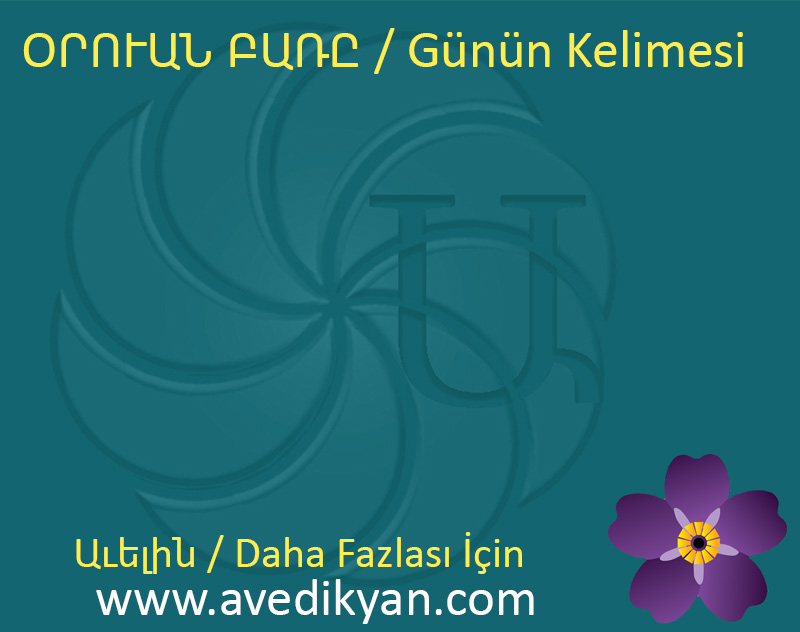
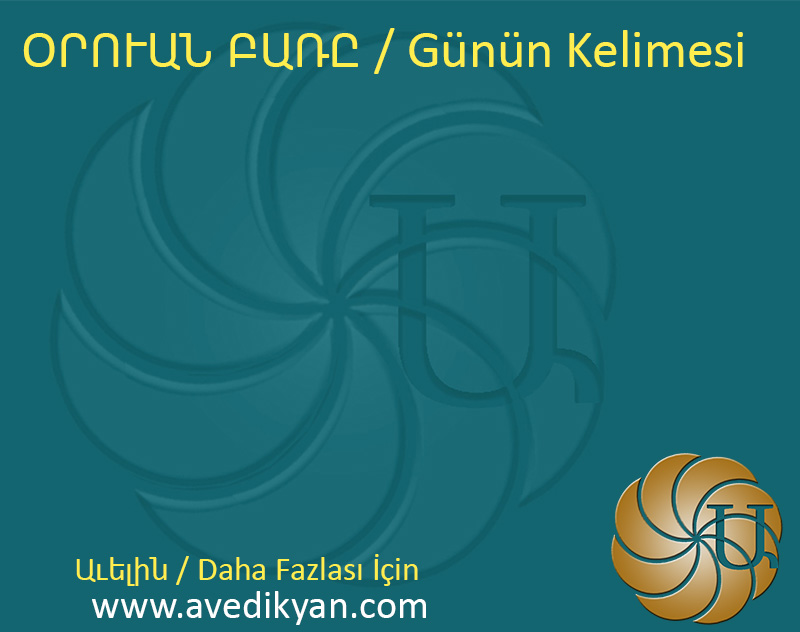
meta tag fixed, error is gone now the index page scrolls to the result if it's out of sight From now on word of the day template won't be displayed without downloading. Hence, the download popup is removed. Re designed template

Changed region(s): [[0.0938, 0.8418, 0.6875, 0.9921], [0.75, 0.6915, 1.0, 0.9921]]

diff --git a/pages/account/wordOfTheDay.vue b/pages/account/wordOfTheDay.vue
@@ -292,7 +292,7 @@ const tempPanel = ref(false);
 const tempAm = ref("");
 const tempTr1 = ref("");
 const tempTr4 = ref("");
-const openTemplatePanel = async () => {
+const exportAsJpg = async () => {
 
   try {  
     if (selectedDate.value) {
@@ -319,6 +319,19 @@ const openTemplatePanel = async () => {
 
   temp.value?.focus();
 
+  const canvas = await html2canvas(image.value, { useCORS: true });
+  const link = document.createElement("a");
+
+  if(selectedDate.value)
+  link.download = `${selectedDate.value}_${responseData.value[getIndex(selectedDate.value)].okunus}.jpg`;
+  link.href = canvas.toDataURL("image/jpeg", 1.0); 
+
+  link.click();
+
+  tempPanel.value = false;
+
+  
+
   } catch (error) {
         alert("Şablonu oluşturmadan önce; sözcüğün İngilizcesinin, Türkçesinin, Ermenicesinin ve okunuşunun dolu olduğundan emin olun.");
 
@@ -330,23 +343,16 @@ import html2canvas from "html2canvas";
 
 const image = ref();
 
-const exportAsJpg = async () => {
-  const canvas = await html2canvas(image.value, { useCORS: true });
-  const link = document.createElement("a");
-  if(selectedDate.value)
-  link.download = `${selectedDate.value}_${responseData.value[getIndex(selectedDate.value)].okunus}.jpg`;
-  link.href = canvas.toDataURL("image/jpeg", 1.0); // quality 1.0 (max)
-  link.click();
-};
+
 </script>
 
 <template>
   <div v-if="isLogged" class="containers">
     <div
       v-if="selectedDate != null && responseData[getIndex(selectedDate)]"
-      class="absolute top-36"
+      class="absolute top-36 bg-black lg:bg-transparent p-2 lg:p-0 rounded-lg"
     >
-      <div class="flex justify-center xl:text-lg font-bold">
+      <div class="flex justify-center xl:text-lg font-bold text-white">
         Seçilen Güne Kaydedilmiş Sözcük
       </div>
       <table
@@ -430,9 +436,9 @@ const exportAsJpg = async () => {
       </table>
 
       <ElementComponentsCustomButton
-        @click="openTemplatePanel"
+        @click="exportAsJpg"
         class="hover:bg-red-500 mx-auto block mt-4"
-        text="Şablonu Görüntüle"
+        text="Şablonu İndir"
       />
     </div>
 
@@ -620,55 +626,31 @@ const exportAsJpg = async () => {
     Bağlantı Sorunu
   </div>
 
-  <div
-    v-if="tempPanel && responseData && selectedDate" @click.self="tempPanel = false"   @keyup.esc="tempPanel = false" tabindex="0" ref="temp"
-
-    class="fixed inset-0 bg-black/50 flex justify-center items-center z-50 select-none"
-  >
-    <div class="bg-white p-6 rounded-lg w-[900px] h-[792px]">
-
-            <div class="text-black text-5xl font-bold flex justify-end">
-              <div class="border-black border px-[5px] pb-[2px] cursor-pointer rounded-lg hover:bg-red-500" v-text="'&#x2715'"  @click="tempPanel = false"></div>
-
-      </div>
-
-      <div class="flex justify-center mt-2">
+        <div class="flex justify-center mt-2 fixed -left-[9999px] top-0" 
+        v-if="tempPanel && responseData && selectedDate"
+     >
         <div class="relative font-[Calibri] flex justify-center text-white " ref="image">
           <img src="/wordday.jpg" class="min-w-[800px] min-h-[632px] " draggable="false"/>
           <span
-            class="absolute text-6xl top-20 transform text-center flex justify-center w-[736px]"
+            class="absolute font-bold text-6xl top-40 transform text-center flex justify-center w-[736px]"
             v-text="tempAm"
           ></span>
           <span
-            class="absolute text-5xl top-[320px] text-center flex justify-center w-[736px]"
+            class="absolute text-4xl top-[320px] text-center flex justify-center w-[736px]"
             v-text="tempTr1"
           ></span>
           <span
-            class="absolute text-5xl top-[426px] text-center flex justify-center w-[552px]"
+            class="absolute text-4xl top-[426px] text-center flex justify-center w-[552px]"
             v-text="tempTr4"
           ></span>
           <span
-            class="absolute text-4xl top-56 text-center flex justify-center w-[416px]"
+            class="absolute text-3xl top-20 text-center flex justify-center w-[736px]"
             v-text="'(' + responseData[getIndex(selectedDate)].okunus + ')'"
           ></span>
         </div>
       </div>
 
-      <ElementComponentsCustomButton
-        @click="exportAsJpg"
-        class="hover:bg-red-500 mx-auto block mt-1"
-        text="İndir"
-      />
 
-      <ElementComponentsCustomButton
-        @click="tempPanel = false"
-        class="hover:bg-red-500 mx-auto block mt-1"
-        text="Kapat"
-      />
-
-
-    </div>
-  </div>
 </template>
 
 <style scoped>

diff --git a/pages/index.vue b/pages/index.vue
@@ -1,21 +1,23 @@
 <script setup lang="ts">
 import type { TDATA } from "~/models/TDATA";
 import { useSearchHistoryStore } from "~/store/search-history.store";
+import { useElementVisibility } from '@vueuse/core'
+import { useTemplateRef } from 'vue'
+const target = useTemplateRef('target')
+const targetIsVisible = useElementVisibility(target)
 
 const loading = ref(true);
 
 onMounted(() => {
-    loading.value = false;
+  loading.value = false;
 });
-
 
 const { t } = useI18n();
 
-const title = computed(() => t('title.index'))
+const title = computed(() => t("title.index"));
 useHead({
-  title
+  title,
 });
-
 
 const desword = ref("");
 const previousDesword = ref("");
@@ -46,11 +48,18 @@ const setToday = async (todayData: TDATA[]) => {
   thereIsNoResult.value = false;
   thereIsNoConnection.value = false;
   searchline.value.wordFromAbove(desword.value);
+        nextTick(() => {
+      if (!targetIsVisible.value) {
+      scrollToTarget();
+    }
+  });
+
 };
 
 const wordInput = (data: string) => {
   desword.value = data;
 };
+
 
 const responseData = ref();
 const submit = async () => {
@@ -62,7 +71,7 @@ const submit = async () => {
     `/api/search/${encodeURIComponent(desword.value)}`,
     {
       method: "GET",
-    }
+    },
   );
   if (error.value) {
     thereIsNoConnection.value = true;
@@ -83,6 +92,11 @@ const submit = async () => {
     thereIsNoResult.value = false;
     thereIsNoConnection.value = false;
     searchHistoryStore.addHistory(desword.value);
+      nextTick(() => {
+      if (!targetIsVisible.value) {
+      scrollToTarget();
+    }
+  });
   } else {
     thereIsNoResult.value = true;
   }
@@ -109,7 +123,11 @@ const random = async () => {
     previousDesword.value = desword.value;
     searchline.value.wordFromAbove(desword.value);
     searchHistoryStore.addHistory(desword.value);
-
+      nextTick(() => {
+      if (!targetIsVisible.value) {
+      scrollToTarget();
+    }
+  });
 
   } else {
     thereIsNoResult.value = true;
@@ -120,19 +138,14 @@ const buttonClick = (event: Event) => {
   event.preventDefault();
 };
 
-const target = ref<HTMLElement | null>(null);
 
-import { useWindowSize } from "@vueuse/core";
-const { height } = useWindowSize();
 
 const scrollToTarget = () => {
-  nextTick(() => {
     if (target.value) {
-      target.value.scrollIntoView({ behavior: 'smooth', block: 'start' })
-    }
-  })
+      target.value.scrollIntoView({ behavior: "smooth", block: "start" });
+    
+  }
 };
-
 </script>
 
 <template>
@@ -159,7 +172,7 @@ const scrollToTarget = () => {
       <AlpTable ref="alpTable" />
 
       <div ref="target">
-      <wordTable :responseData="responseData"></wordTable>
+        <wordTable :responseData="responseData"></wordTable>
       </div>
       <div
         v-if="thereIsNoResult"

diff --git a/components/SearchLine.vue b/components/SearchLine.vue
@@ -6,8 +6,6 @@ import { useDebounceFn } from "@vueuse/core";
 
 const { t } = useI18n();
 
-
-
 const currentHoverIndex = ref<number>(-1);
 const desword = ref("");
 const resultBoxContent = ref<string[]>([]);
@@ -16,7 +14,7 @@ const search = ref<HTMLInputElement | null>(null);
 const cursorStart = ref<number>(0);
 const cursorEnd = ref<number>(0);
 const suppressSuggestions = ref(false);
-
+const keyboardOn = ref(false);
 
 const todayData = ref();
 
@@ -244,7 +242,6 @@ const toggleHistory = (event: Event) => {
   historyOn.value = !historyOn.value;
 };
 
-let keyboardOn = ref(false);
 
 const toggleKeyboard = (event: Event) => {
   

diff --git a/app.vue b/app.vue
@@ -6,12 +6,15 @@ useHead({
   link: [
     { rel: "manifest", href: "/manifest.json" },
     { rel: "icon", href: "/icon-192.png" },
-
-    // iOS special requirement:
     { rel: "apple-touch-icon", href: "/icon-192.png" }
   ],
   meta: [
     { name: "theme-color", content: "#ffffff" },
+
+    // Standard (Chrome, Android, etc.)
+    { name: "mobile-web-app-capable", content: "yes" },
+
+    // iOS Safari (still required)
     { name: "apple-mobile-web-app-capable", content: "yes" }
   ]
 });

diff --git a/components/NavBar/MobileNavMenu.vue b/components/NavBar/MobileNavMenu.vue
@@ -98,7 +98,8 @@ const toggleDropdown = (event: Event) => {
               </NuxtLink>
               <NuxtLink to="/account/removeWord">
                 <li>
-                  Yönlendirme/Sözcük Sil
+                  Yönlendirme/
+                  Sözcük Sil
                 </li>
               </NuxtLink>
               <li class="cursor-pointer" @click="logoutClicked()">

diff --git a/pages/account/lostAndFound.vue b/pages/account/lostAndFound.vue
@@ -139,7 +139,7 @@ const appendOrRemove = (word: string) => {
     selectedListWord.value.push(word);
   } else {
     selectedListWord.value = selectedListWord.value.filter(
-      (item) => item !== word    // ✅ compare item to word
+      (item) => item !== word    
     );
   }
 };
